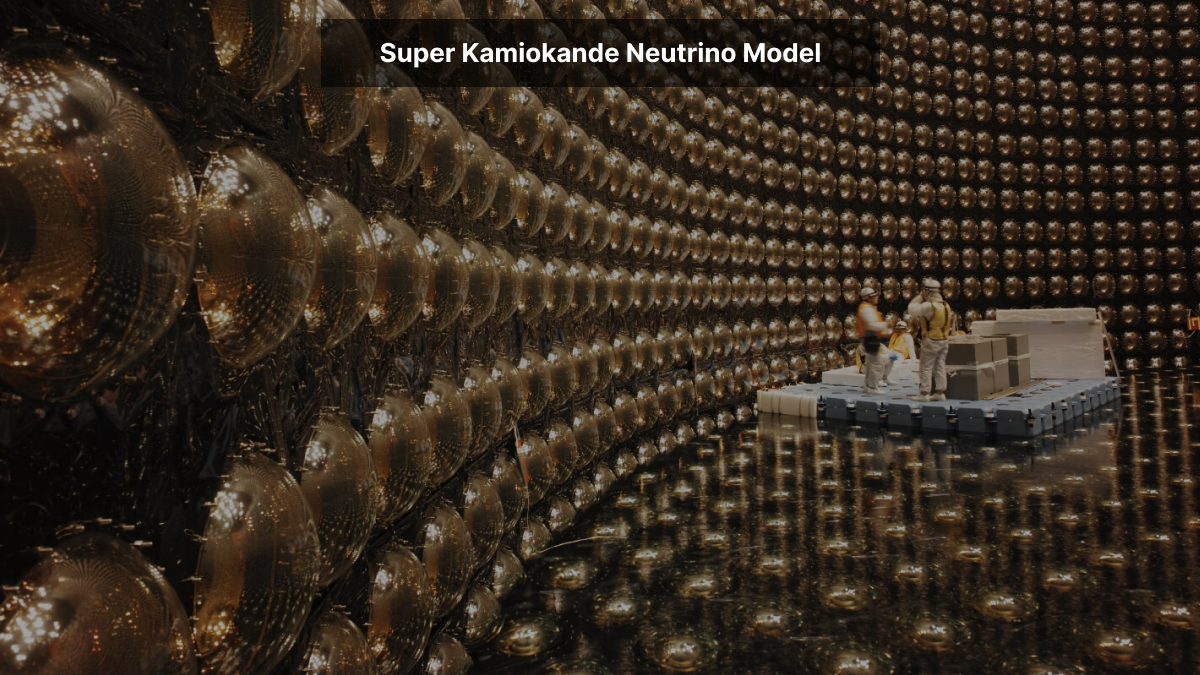
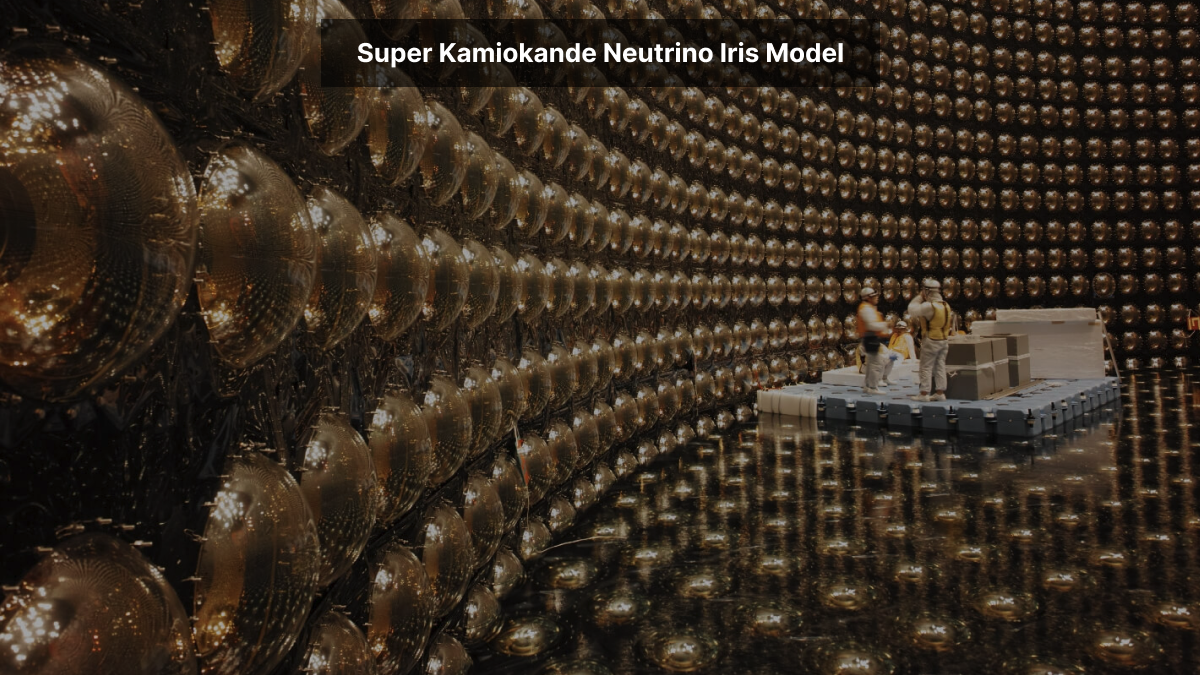
remote control Putin

Changed region(s): [[0.2775, 0.0622, 0.7092, 0.0933]]

diff --git a/public/content/posts/07-13/index.md b/public/content/posts/07-13/index.md
@@ -109,7 +109,7 @@ After the collapse of Soviet Union in 1990s, the world balance of power is movin
 ### The Obsolescence of Nuclear Deterrence
 
 #### Nanobots and the Remote Control Manchurian Candidate
-![Super Kamiokande Neutrino Iris](content/posts/07-13/super_kamiokande_neutrino_iris.png)
+![Super Kamiokande Neutrino Iris Model](content/posts/07-13/super_kamiokande_neutrino_iris.png)
 
 ![Remote Control Human](content/posts/07-13/neutrino_receptor_inside_an_iris.png)
 
